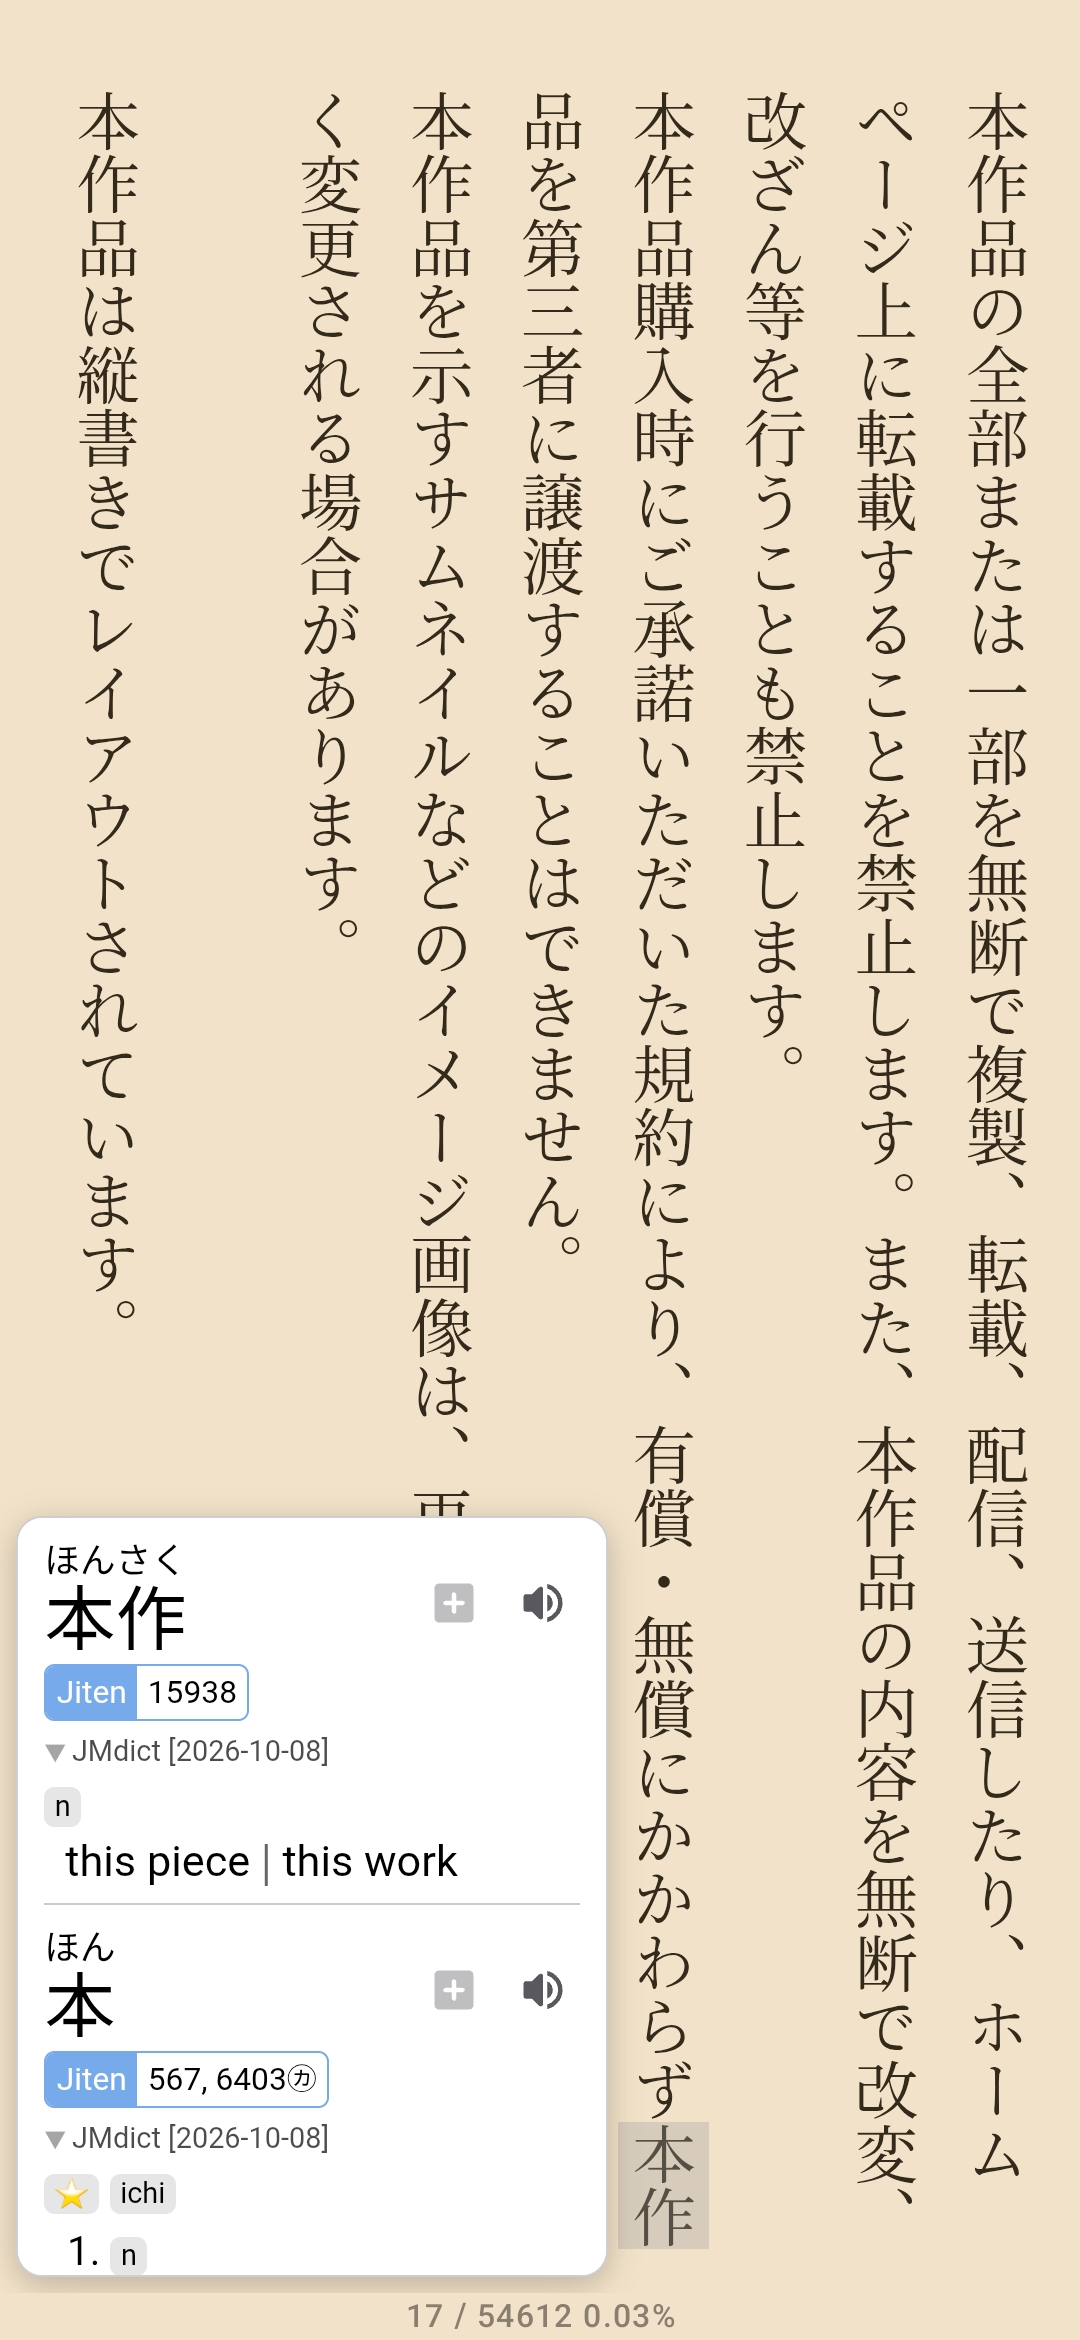
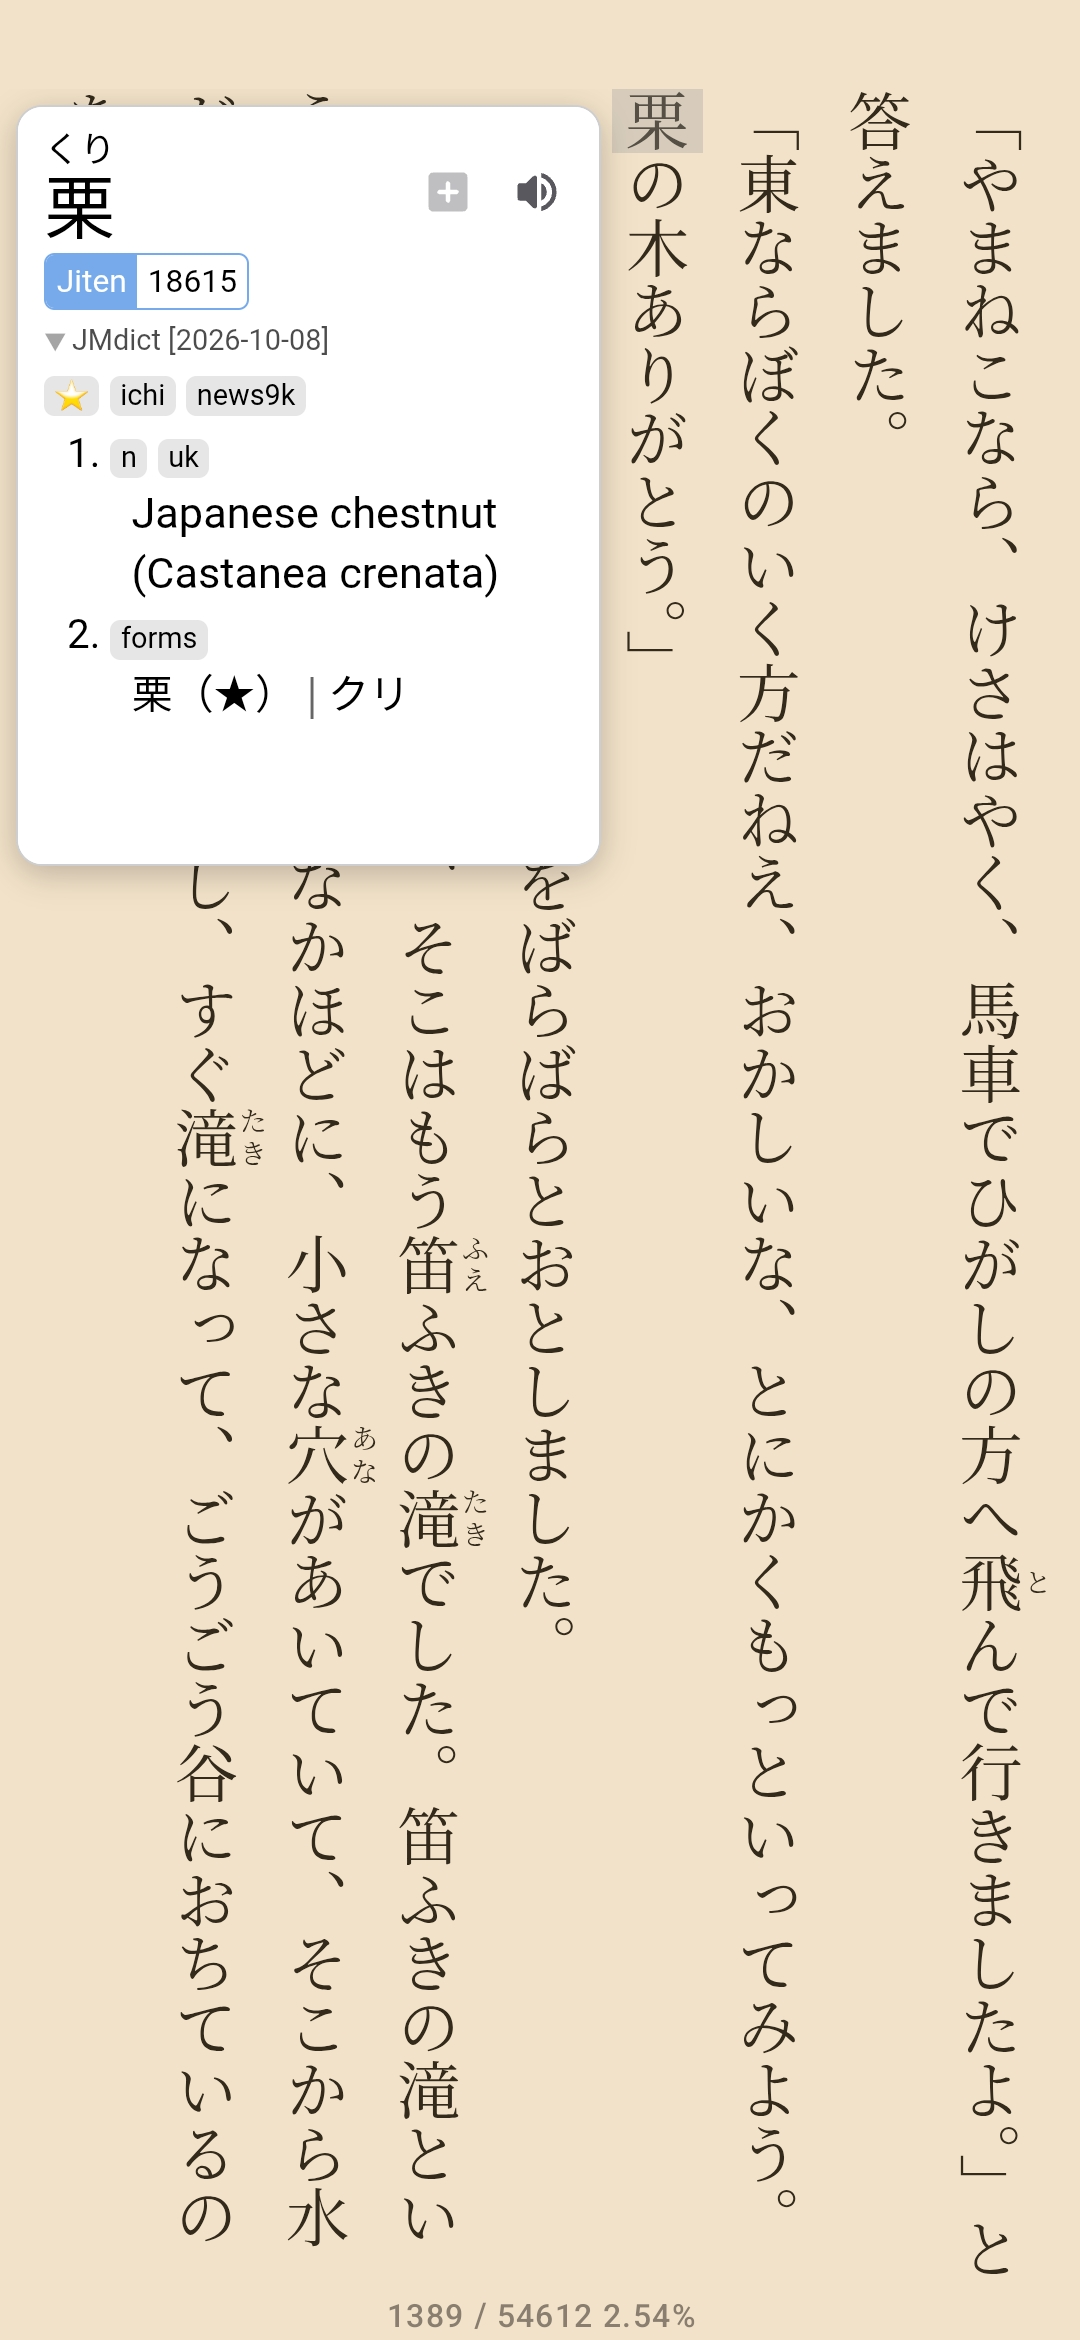
fotos

diff --git a/guia.html b/guia.html
@@ -273,8 +273,8 @@ figcaption {
 
 <div class="screens wide">
     <figure>
-        <img src="images/hoshi_13.jpg" alt="本作">
-        <figcaption>Consulta de 本作 durante a leitura.</figcaption>
+        <img src="images/hoshi_13.jpg" alt="栗">
+        <figcaption>Consulta de 栗 durante a leitura.</figcaption>
     </figure>
 </div>
 
